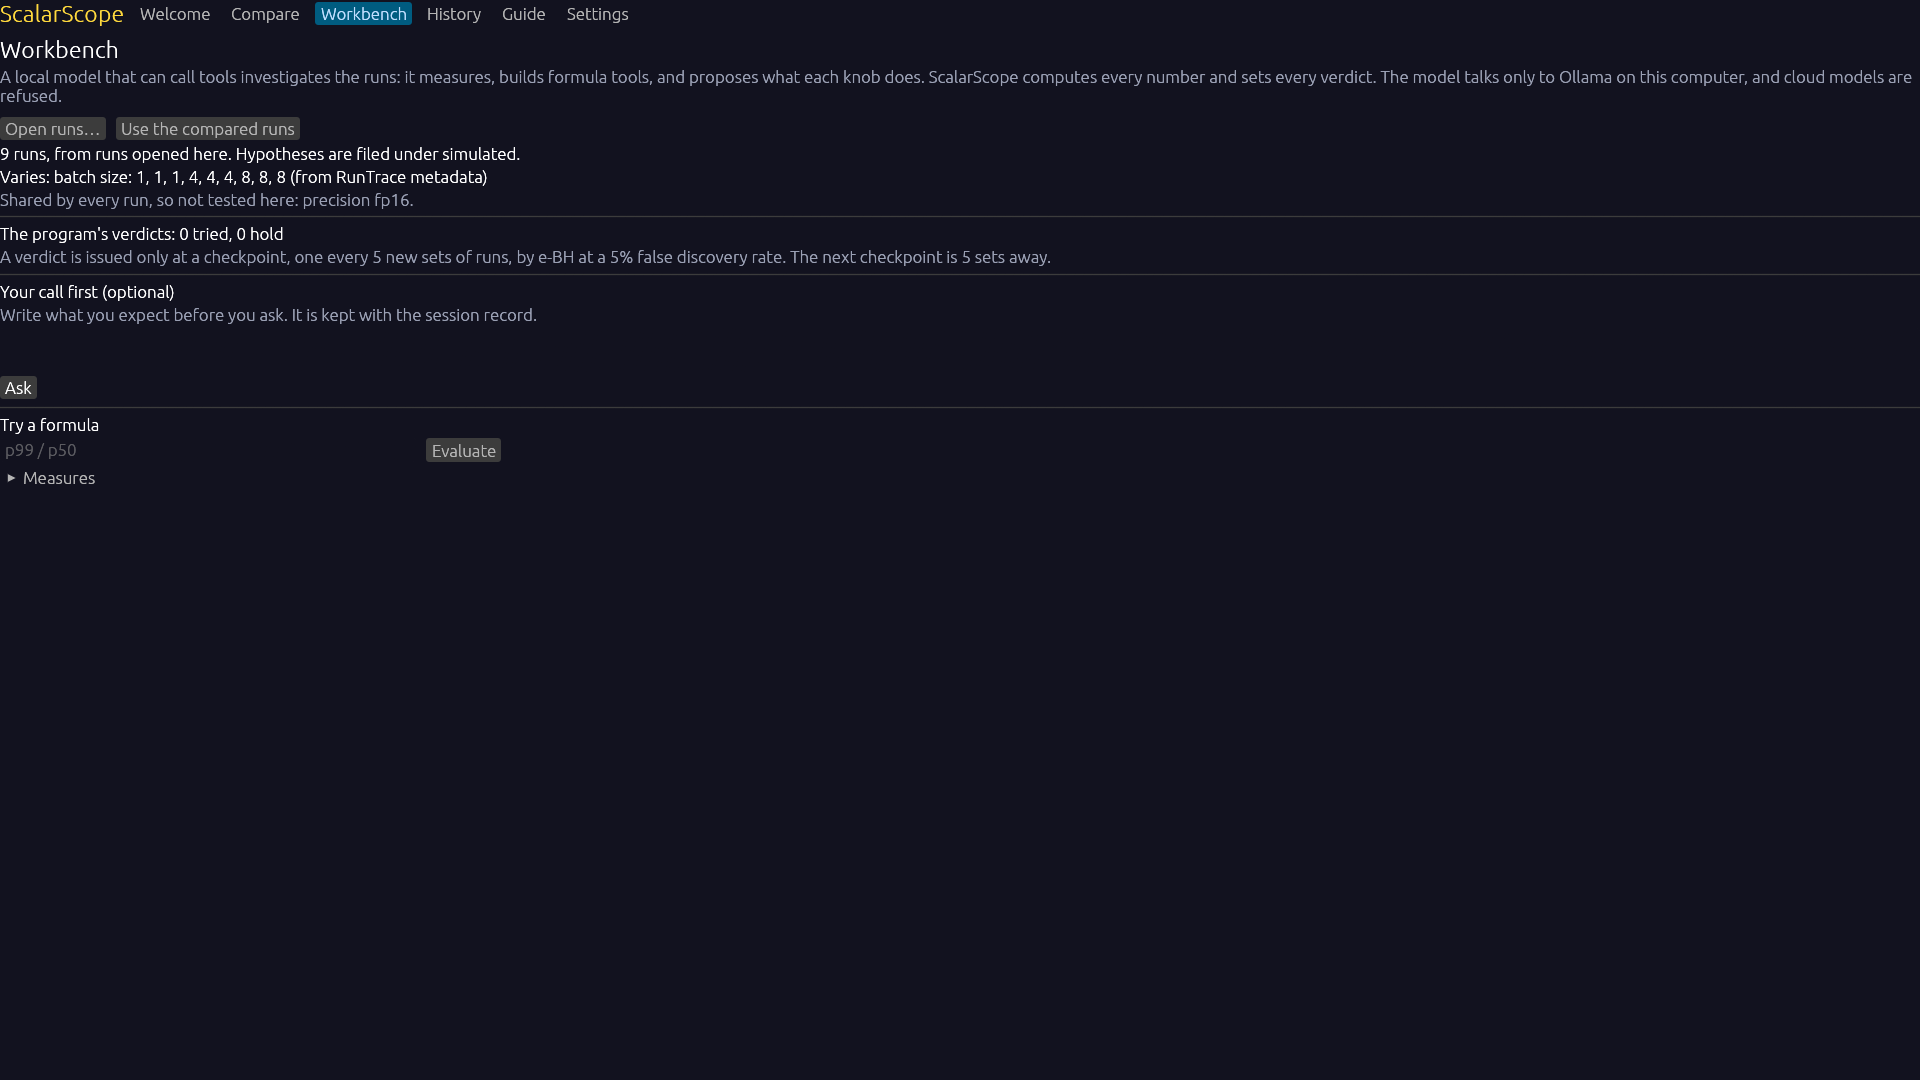
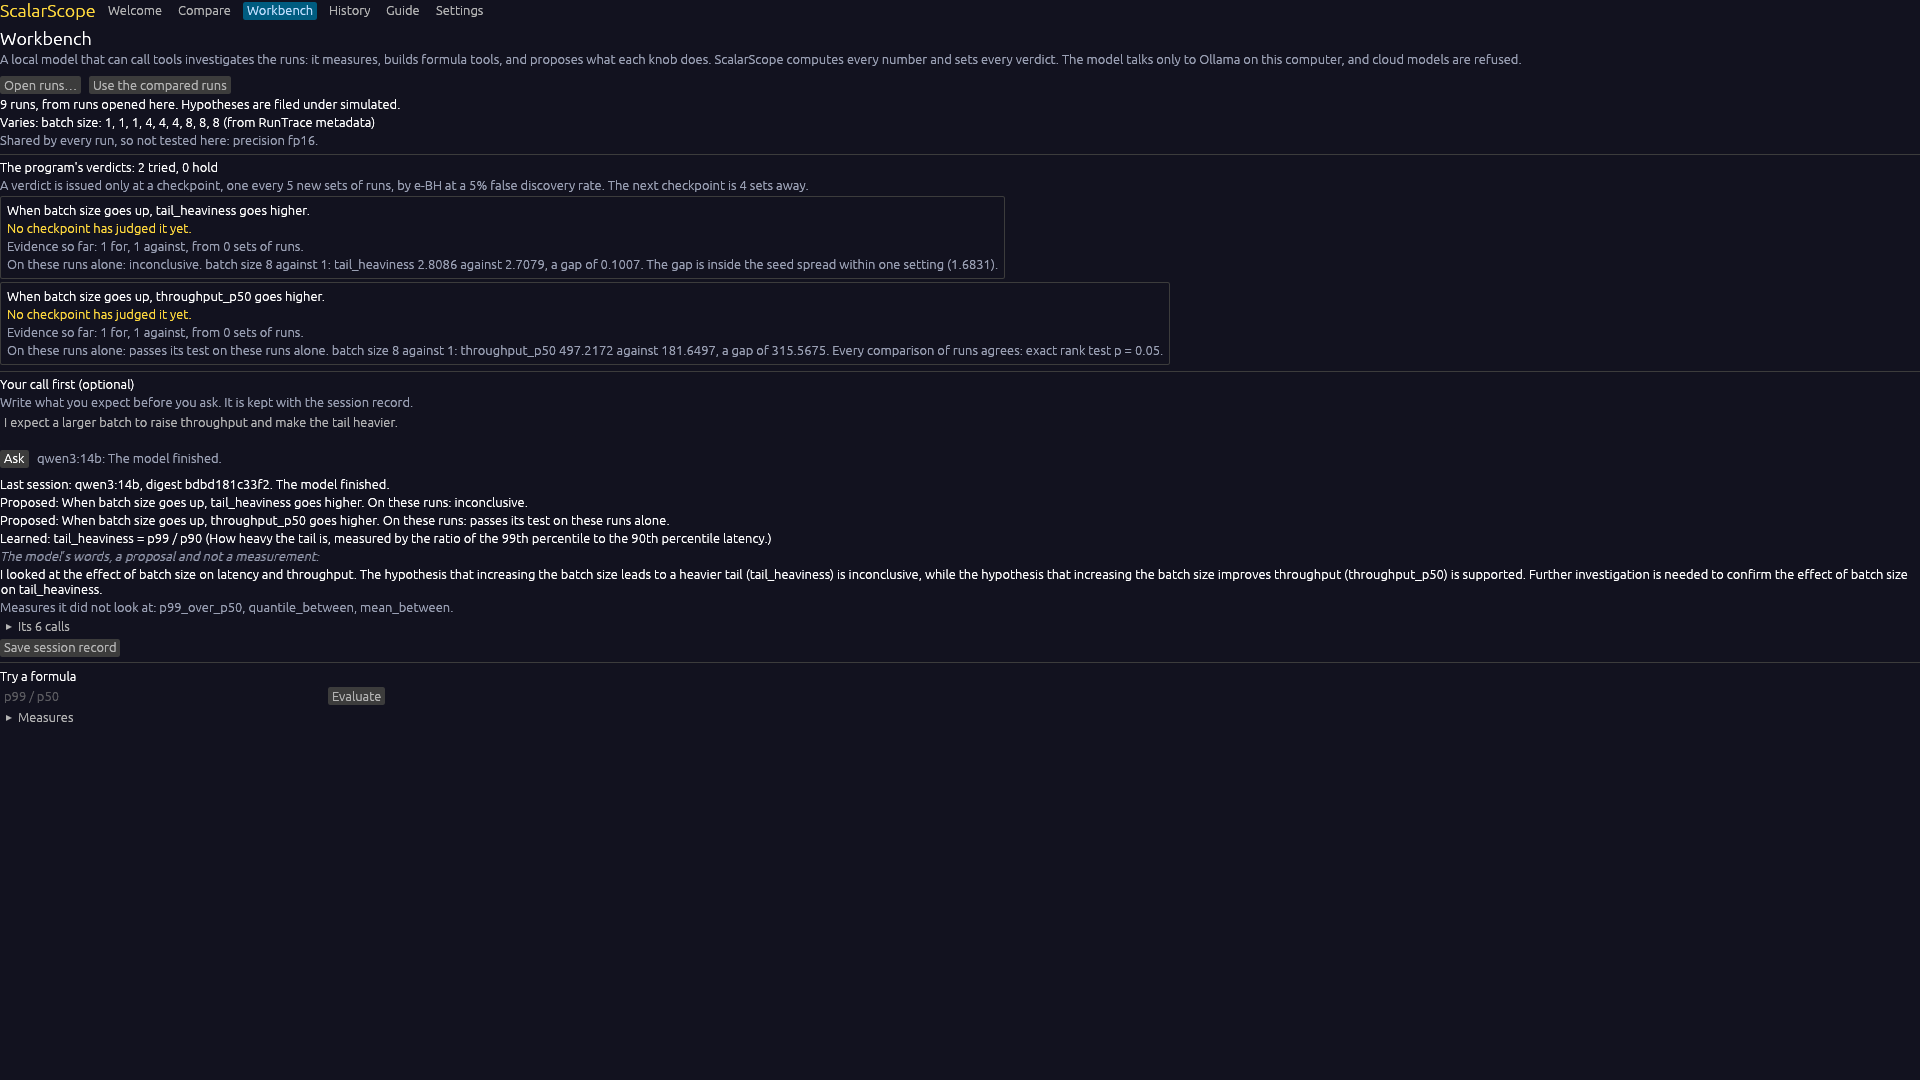
Retake listing shots 1 and 5
Shot 1 shows the ΔTc tile and the elapsed-time note naming their axis.
Shot 5 shows the Workbench after a real qwen3:14b session on the
sample runs: two recorded hypotheses with their program-set states,
the learned tool and the labelled model note. Captions, sources and
the retake command are updated; README's test count is 215.

diff --git a/docs/store/README.md b/docs/store/README.md
@@ -1,6 +1,6 @@
 # Store listing screenshots (3.1.0)
 
-Six screenshots at 1920 × 1080, taken from the release build at text scale 1.3, on the files in `samples/` and the built-in sample. No path or personal data is on screen.
+Six screenshots at 1920 × 1080, taken from the release build on the files in `samples/` and the built-in sample: text scale 1.3, except shot 5 at 1.0 so a whole session fits. No path or personal data is on screen.
 
 | Order | File | Caption |
 |---|---|---|
@@ -8,7 +8,7 @@ Six screenshots at 1920 × 1080, taken from the release build at text scale 1.3,
 | 2 | `2-distribution-why.png` | Every delta explains itself: the rule and this pair's numbers. Drag a threshold to read P(latency > x) for each run. |
 | 3 | `3-heat-map.png` | Six views, none animated. The heat map shows where each run's samples fall, step by step, on a shared scale. |
 | 4 | `4-geometry-drift.png` | ASPIRE training geometry. A reading the data cannot support is withheld, with the reason. |
-| 5 | `5-workbench.png` | Workbench: weigh a setting across many runs. A local model proposes; ScalarScope tests and decides. |
+| 5 | `5-workbench.png` | Workbench: a local model proposes what a setting does. ScalarScope tests each hypothesis and sets its state, and the model's note is labelled as its words. |
 | 6 | `6-guide.png` | A searchable guide to every rule on the page. |
 
 ## Sources
@@ -17,7 +17,7 @@ Six screenshots at 1920 × 1080, taken from the release build at text scale 1.3,
 |---|---|
 | 1–3 | The built-in sample comparison (`rust/samples/baseline.csv`, `rust/samples/optimized.csv`): Series view, then Distribution with the ΔO Why panel open, then Heat map |
 | 4 | `samples/geometry/local-teacher.drift.geometry.json` against `composite-teacher.drift.geometry.json`, from two real aspire-si training runs |
-| 5 | The nine simulated runs in `samples/workbench` (the page says they are filed under "simulated") |
+| 5 | The nine simulated runs in `samples/workbench` (the page says they are filed under "simulated"), after a real session with qwen3:14b on the local GPU (2026-10-07). The program recorded two hypotheses: tail heaviness up with batch size, inconclusive; throughput up with batch size, passes on these runs alone. The model's note calls the second "supported", which is why the note sits under the label saying it is the model's words. |
 | 6 | Guide |
 
 ## Retaking them
@@ -29,5 +29,7 @@ SCALARSCOPE_CAPTURE=docs/store/1-compare-headline.png SCALARSCOPE_CAPTURE_SCALE=
 SCALARSCOPE_CAPTURE_PAGE=compare SCALARSCOPE_CAPTURE_VIEW=1 \
   rust/target/release/scalarscope.exe rust/samples/baseline.csv rust/samples/optimized.csv
 ```
+
+Shot 5 adds `SCALARSCOPE_CAPTURE_RUNS=samples/workbench` and `SCALARSCOPE_CAPTURE_ASK="<your call>"`, which runs a real session against a local Ollama model that can call tools and waits for it. Check the GPU is free first, and unload the model after.
 
 The other variables are `SCALARSCOPE_CAPTURE_WHY` (a delta symbol such as `ΔO`) and `SCALARSCOPE_CAPTURE_RUNS` (a folder of runs for the Workbench). `SCALARSCOPE_CAPTURE_PAGE` takes `welcome`, `compare`, `workbench`, `history`, `guide` or `settings`.

diff --git a/README.md b/README.md
@@ -113,7 +113,7 @@ Getting Started in the [handbook](https://mcp-tool-shop-org.github.io/scalarscop
 ## Testing
 
 ```bash
-# The review: 213 tests. Line coverage must stay above 90%.
+# The review: 215 tests. Line coverage must stay above 90%.
 cd rust
 cargo test
 cargo llvm-cov --locked --all-targets --fail-under-lines 90
